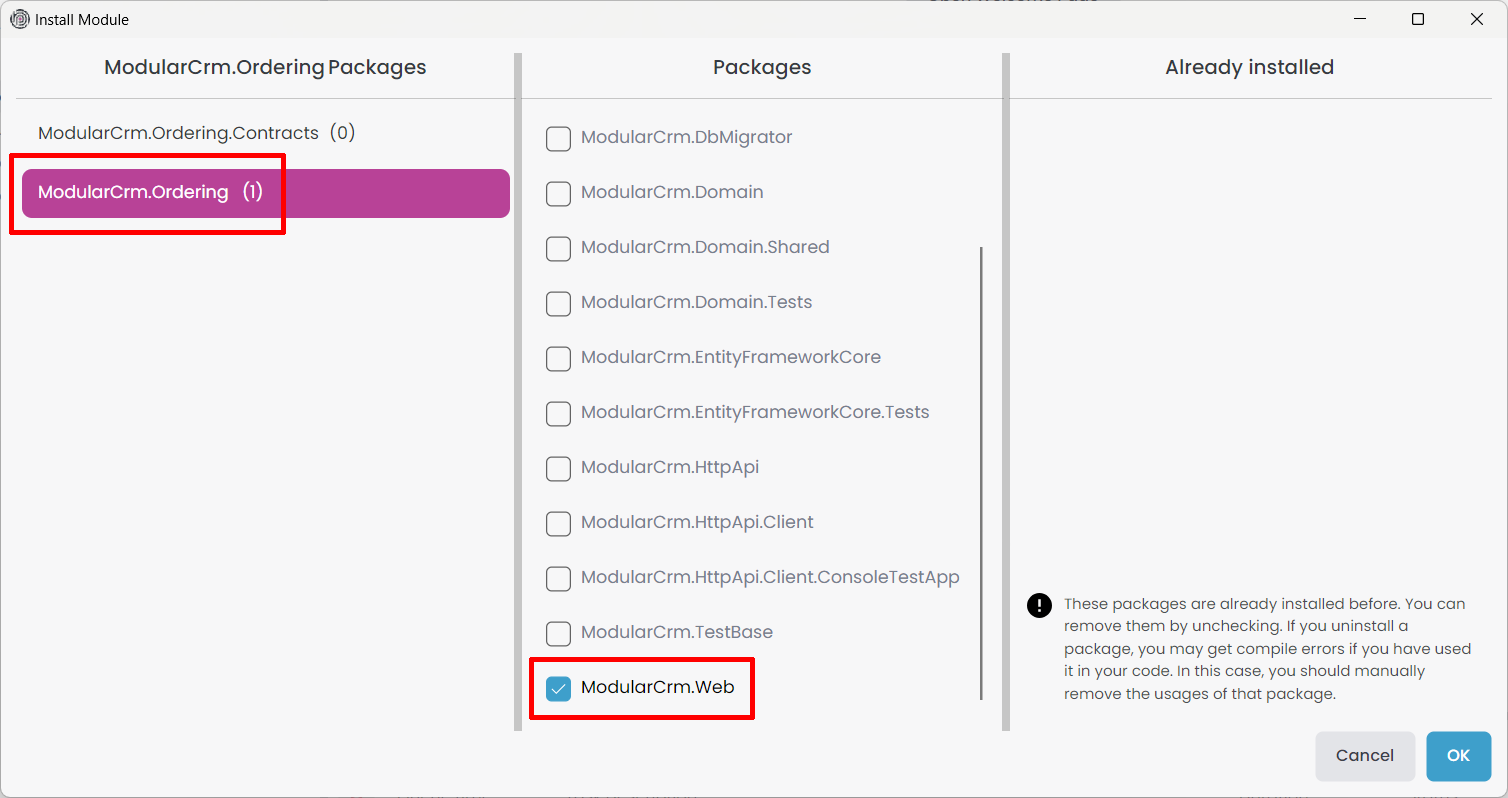
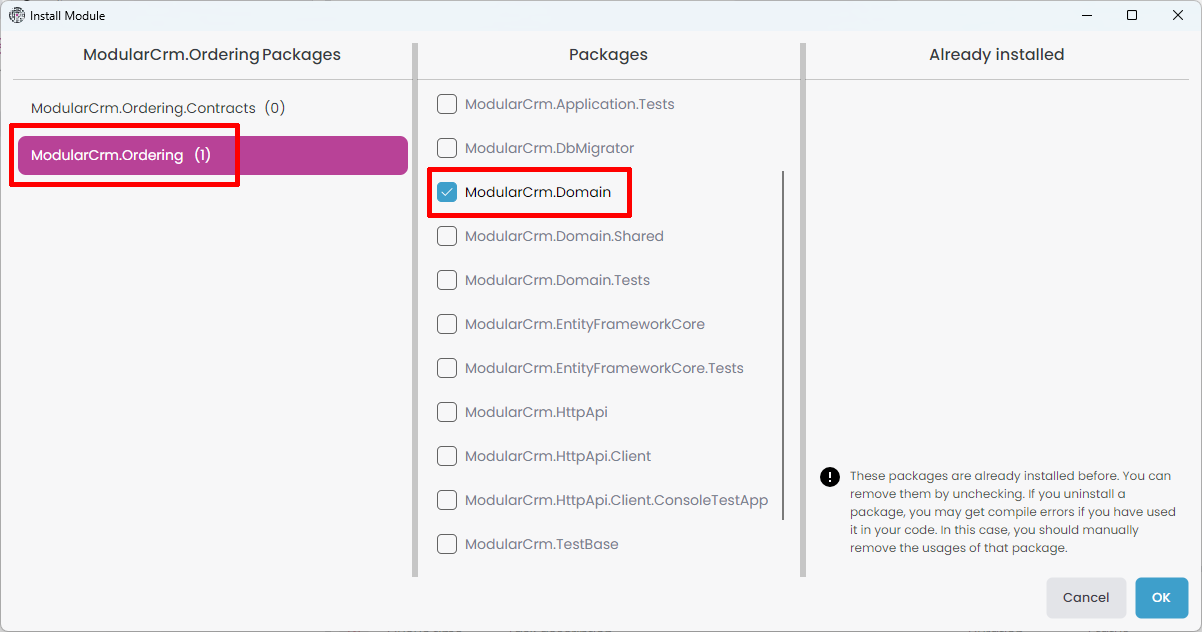
Db mapping for the orders

diff --git a/docs/en/tutorials/modular-crm/part-05.md b/docs/en/tutorials/modular-crm/part-05.md
@@ -164,8 +164,68 @@ namespace ModularCrm.Ordering.Data
 
 #### Configuring the Main Application
 
-Open the 
+Open the main application's solution in your IDE, find the `ModularCrmDbContext` class under the `ModularCrm.EntityFrameworkCore` project and follow the 3 steps below:
 
-d
+**(1)** Add the following attribute on top of the `ModularCrmDbContext` class:
 
-d
+````csharp
+[ReplaceDbContext(typeof(IOrderingDbContext))]
+````
+
+`ReplaceDbContext` attribute makes it possible to use the `ModularCrmDbContext` class in the services in the Ordering module.
+
+**(2)** Implement the `IOrderingDbContext` by the `ModularCrmDbContext` class:
+
+````csharp
+public class ModularCrmDbContext :
+    AbpDbContext<ModularCrmDbContext>,
+    ITenantManagementDbContext,
+    IIdentityDbContext,
+    IProductsDbContext,
+    IOrderingDbContext //NEW: IMPLEMENT THE INTERFACE
+{
+    public DbSet<Product> Products { get; set; }
+    public DbSet<Order> Orders { get; set; } //NEW: ADD DBSET PROPERTY
+	...
+}
+````
+
+**(3)** Finally, call the `ConfigureOrdering()` extension method inside the `OnModelCreating` method after other `Configure...` module calls:
+
+````csharp
+protected override void OnModelCreating(ModelBuilder builder)
+{
+    ...
+    builder.ConfigureOrdering(); //NEW: CALL THE EXTENSION METHOD
+}
+````
+
+In this way, `ModularCrmDbContext` can be used by the Ordering module over the `IProductsDbContext` interface. This part is only needed for one time for a module. Next time, you can just add a new database migration as explained in the next section.
+
+#### Add a Database Migration
+
+Now, we can add a new database migration. You can use Entity Framework Core's `Add-Migration` (or `dotnet ef migrations add`) terminal command, but we will use ABP Studio's shortcut UI in this tutorial.
+
+Ensure that the solution has built. You can right-click the `ModularCrm` (under the `main` folder) on ABP Studio *Solution Runner* and select the *Dotnet CLI* -> *Graph Build* command.
+
+Right-click the `ModularCrm.EntityFrameworkCore` package and select the *EF Core CLI* -> *Add Migration* command:
+
+![abp-studio-add-entity-framework-core-migration](images/abp-studio-add-entity-framework-core-migration.png)
+
+The *Add Migration* command opens a new dialog to get a migration name:
+
+![abp-studio-entity-framework-core-add-migration-order](images/abp-studio-entity-framework-core-add-migration-order.png)
+
+Once you click the *OK* button, a new database migration class is added into the `Migrations` folder of the `ModularCrm.EntityFrameworkCore` project:
+
+![visual-studio-new-migration-class-2](images/visual-studio-new-migration-class-2.png)
+
+Now, you can return to ABP Studio, right-click the `ModularCrm.EntityFrameworkCore` project and select the *EF Core CLI* -> *Update Database* command:
+
+![abp-studio-entity-framework-core-update-database](images/abp-studio-entity-framework-core-update-database.png)
+
+After the operation completes, you can check your database to see the new `Orders` table has been created:
+
+![sql-server-products-database-table](images/sql-server-orders-database-table.png)
+
+TODO

diff --git a/docs/en/tutorials/modular-crm/part-04.md b/docs/en/tutorials/modular-crm/part-04.md
@@ -105,8 +105,8 @@ Select the `ModularCrm.Ordering` module and check the *Install this module* opti
 
 ![abp-studio-install-module-dialog](images/abp-studio-install-module-dialog.png)
 
-Select the `ModuleCrm.Ordering` package on the left side, `ModularCrm.Web` package on the middle area as shown in the preceding figure and click the *OK* button.
+Select the `ModuleCrm.Ordering` package on the left area, `ModularCrm.Domain` package on the middle area as shown in the preceding figure and click the *OK* button.
 
-> Since the Ordering module is not layered, we didn't install its packages to the layers of our main application. We are installing it only to the `ModularCrm.Web` since that is the final executable application of our solution and that is enough. If you build your modules as non-layered and you don't have much code in the main application's .NET solution, you can also consider to create a non-layered main application that composes these modules.
+> Since the Ordering module is not layered, we didn't install its packages to the layers of our main application. We are installing it only to `ModularCrm.Domain`. In this way, we can use the Ordering module from any layer of our application since `ModularCrm.Domain` is one of the core packages of our application. If you build your modules as non-layered and you don't have much code in the main application's .NET solution, you can also consider to create a non-layered main application that composes these modules.
 
 In this part of the tutorial, we've created an empty module and added packages. In that way, you can create modules or applications with custom structure. In the next part, we will add functionality to the Ordering module.
